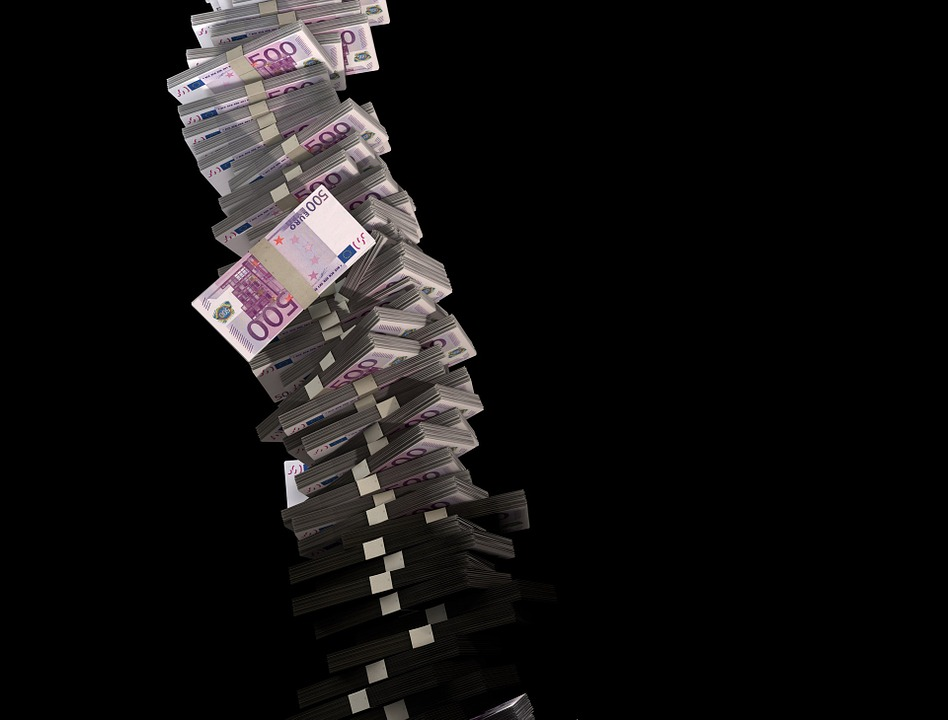
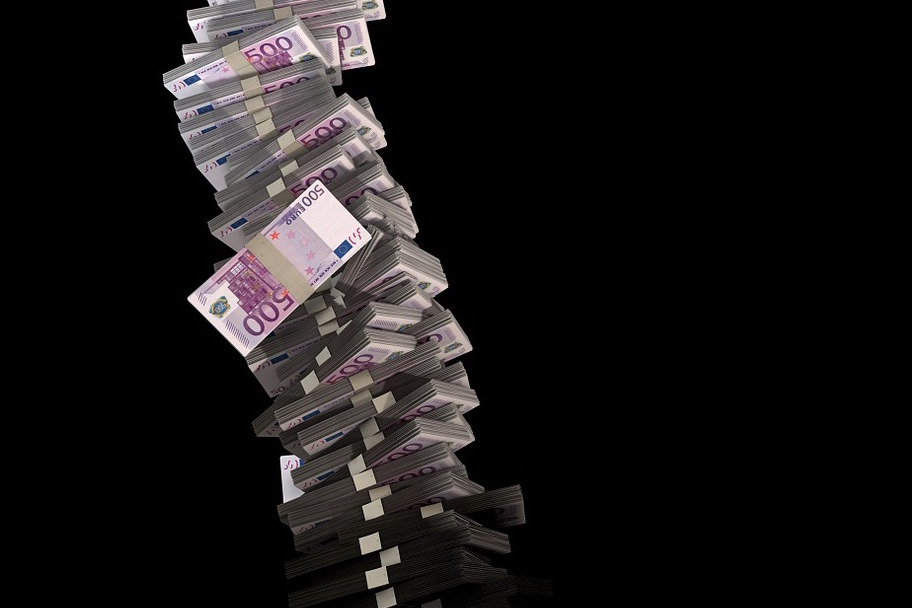
resize picture in for dashboard, add show/hide of add form in eventless
(start trial button removed)

Changed region(s): [[0.1535, 0.0, 0.5833, 1.0]]

diff --git a/imports/ui/components/partyDashboard/partyDashboard.html b/imports/ui/components/partyDashboard/partyDashboard.html
@@ -1,10 +1,11 @@
 <div layout="row" layout-wrap>
-    <div layout=column flex="80">
-            <div flex class="progress">
+ <div layout=column flex="75">
+            <!--<div flex class="progress">
                  <div class="determinate blue darken-1" style="width: 10%"></div>
             </div>
+            -->
 
-<div class="row">
+<div class="row categories" >
 
     <div class="col s4">
             <div class="card">
@@ -70,17 +71,19 @@
     </div>
 </div>
 </div>
-    <div class="sidebar" flex="20">
-        <h1 style="font-size: xx-large">Overview</h1>
+    <div flex="25">
+        <div class="sidebar" md-whiteframe="3">
+            <h3>{{partyDashboard.currentEvent.name}}</h3>
             <div layout="column">
-                <div class="todo">
-                <md-list>
-                    <h1 style="font-size: large">Upcoming To-Dos</h1>
-                    <md-list-item>Send Invitations</md-list-item>
-                    <md-list-item>Confirm Location</md-list-item>
-                    <md-list-item>Order Decoration</md-list-item>
-                </md-list>
-             </div>
-             </div>
+                <div class="todo" md-whiteframe="2">
+                    <md-list>
+                        <h4>Upcoming To-Dos</h4>
+                        <md-list-item>Send Invitations</md-list-item>
+                        <md-list-item>Confirm Location</md-list-item>
+                        <md-list-item>Order Decoration</md-list-item>
+                    </md-list>
+                </div>
+            </div>
+        </div>
     </div>
 </div>

diff --git a/imports/ui/components/eventList/eventList.html b/imports/ui/components/eventList/eventList.html
@@ -6,7 +6,8 @@
             <div layout="row">
                     <h2 class="md-display-1">Your Events:</h2>
                     <span flex></span>
-                    <md-button class="md-fab material-icons" ng-click="eventList.openForm()"> add</md-button>
+                    <md-button ng-hide="eventList.showAddForm" class="md-fab material-icons" ng-click="eventList.openForm()"> add</md-button>
+                    <md-button ng-show="eventList.showAddForm" class="md-fab material-icons" ng-click="eventList.openForm()"> close</md-button>
             </div>
             <div ng-if="eventList.showAddForm">
                 <div layout="row" layout-padding>

diff --git a/imports/ui/components/userAuth/userAuth.html b/imports/ui/components/userAuth/userAuth.html
@@ -4,8 +4,9 @@
         <md-button flex aria-label="Registration" ng-click="userAuth.openRegistration($event)">Sign up</md-button>
     </div>
 
-    <div ng-show="userAuth.isLoggedIn">
-        <md-menu md-position-mode="target-right bottom">
+    <div ng-show="userAuth.isLoggedIn" layout="row">
+        <md-button flex ui-sref="event"> My Events </md-button>
+        <md-menu flex md-position-mode="target-right bottom">
             <md-button aria-label="Open user menu" ng-click="$mdOpenMenu($event)">
                 <md-icon md-svg-icon="action:ic_perm_identity_24px"></md-icon>
                 {{userAuth.currentUser.profile.firstName}}

diff --git a/imports/ui/components/partyDashboard/partyDashboard.less b/imports/ui/components/partyDashboard/partyDashboard.less
@@ -12,7 +12,6 @@
   color: white;
   float: left;
   width: 90%;
-  height: 400px;
   text-align: center;
   box-shadow: 0 4px 8px 0 rgba(0, 0, 0, 0.51), 0 6px 20px 0 rgba(0, 0, 0, 0.51);
 }
@@ -23,6 +22,10 @@
 
 span {
   font-weight: bold;
+}
+
+.categories {
+  margin:10px;
 }
 
 .card-image {
@@ -36,12 +39,16 @@ span {
 }
 
 .sidebar {
-  background-color: #bbdefb;
+  height: 92%;
+  margin: 10px;
+  margin-right: 25px;
   text-align: center;
+  border-radius: 2px;
 }
 
 .todo {
-  background-color: #1E88E5;
+  margin: 5px;
+  border-radius: 2px;
 }
 .newsfeed {
   background-color: #1e88e5;

diff --git a/imports/ui/components/partyDashboard/partyDashboard.js b/imports/ui/components/partyDashboard/partyDashboard.js
@@ -3,6 +3,7 @@ import angularMeteor from 'angular-meteor';
 import uiRouter from 'angular-ui-router';
 
 import { Meteor } from 'meteor/meteor';
+import { Events } from '../../../api/events';
 
 import template from './partyDashboard.html';
 
@@ -15,10 +16,15 @@ class PartyDashboard{
 
     this.eventId = $stateParams.eventId;
 
+
     this.subscribe('events');
     this.subscribe('users');
 
+
     this.helpers({
+      currentEvent(){
+        return Events.findOne(this.eventId);
+      },
       users() {
         return Meteor.users.find({});
       },

diff --git a/imports/ui/components/startpageContent/startpageContent.html b/imports/ui/components/startpageContent/startpageContent.html
@@ -24,7 +24,7 @@
             can try it 5 days for free. Afterwards you only have to pay 4.99€ per event. Considering how much time and
             nerves you will safe with this application, it is definitely worth it. You will see it for yourself...
         </p>
-        <md-button class="md-raised md-accent">Start your free trial now!</md-button>
+        <!--<md-button class="md-raised md-accent">Start your free trial now!</md-button> -->
     </md-content></div>
 
     <div>

diff --git a/imports/ui/components/eventList/eventList.js b/imports/ui/components/eventList/eventList.js
@@ -97,7 +97,12 @@ class EventList {
     }
     
     openForm() {
-        this.showAddForm = true;
+        if(this.showAddForm) {
+            this.event= {};
+            this.showAddForm = false;
+        } else {
+            this.showAddForm = true;
+        }
     }
     submit() {
         this.event.creator = Meteor.user()._id;
